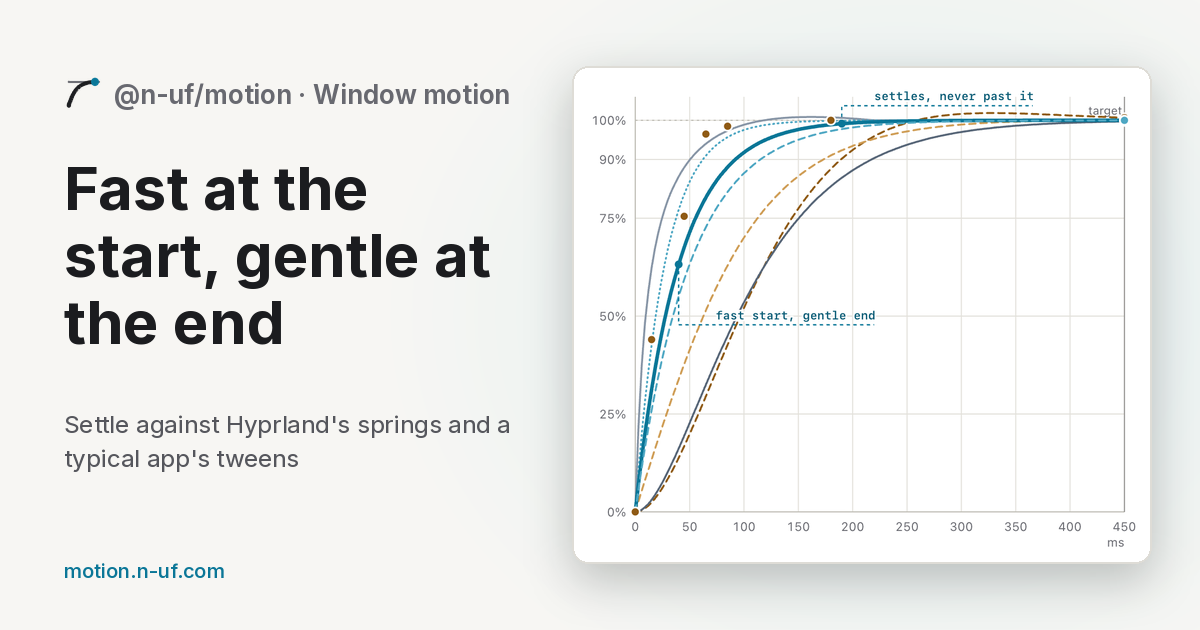
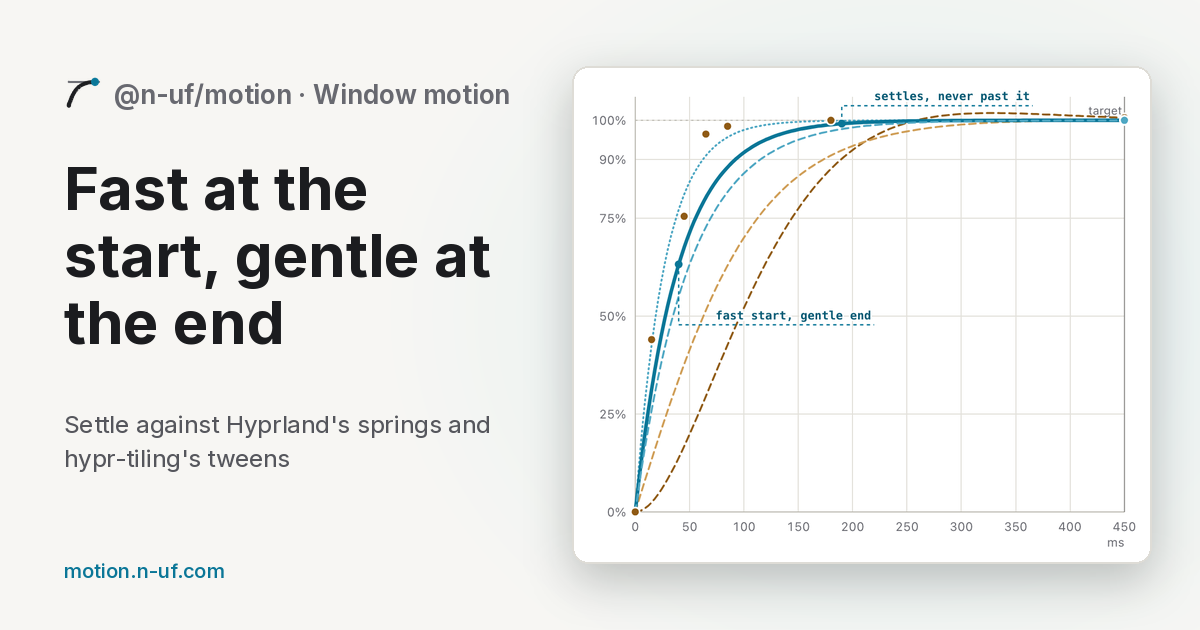
docs(site): re-render the share images; drop the dead --series-d token
The window-motion image no longer shows the unnamed app's curves, and the
other cards use the new words. capture-og.mjs takes CHROMIUM_PATH when the
browser playwright-core expects isn't installed.

(cherry picked from commit 42eeee7d34ae7a82b6f8d16fe8df7013d8af79a8)

diff --git a/apps/web/src/styles/tokens.css b/apps/web/src/styles/tokens.css
@@ -57,8 +57,7 @@
   --series-b2: #9b6aa8;
   --series-c: var(--accent);
   --series-c2: #4ea7c3;
-  /* Other curves (hypr-tiling's, a no-clamp retarget): two slates, never violet (violet is placement's) */
-  --series-d: #566577;
+  /* Other curves (a no-clamp retarget): a slate, never violet (violet is placement's) */
   --series-e: #8795a6;
   --series-ink: #4b4d53;
 
@@ -173,7 +172,6 @@
     --series-b: #9a93ea;
     --series-b2: #d39be0;
     --series-c2: #9edff0;
-    --series-d: #a3afbf;
     --series-e: #6f7d8f;
     --series-ink: #c2c4ca;
     --grip: #7d838e;
@@ -235,7 +233,6 @@
   --series-b: #9a93ea;
   --series-b2: #d39be0;
   --series-c2: #9edff0;
-  --series-d: #a3afbf;
   --series-e: #6f7d8f;
   --series-ink: #c2c4ca;
   --grip: #7d838e;

diff --git a/apps/web/scripts/render-og.py b/apps/web/scripts/render-og.py
@@ -20,9 +20,9 @@ FAINT_LINE = (104, 105, 112)   # the mark's target line: the site's --text-3 in 
 CARDS = [
     ("public/og.png", "n-uf motion & placement", "Window motion and docking", "@n-uf/motion moves windows without overshoot; @n-uf/placement works out where they dock", "home.png", (560, 420)),
     ("public/og/window-motion.png", "@n-uf/motion · Window motion", "Fast at the start, gentle at the end", "Settle against Hyprland's springs and hypr-tiling's tweens", "window-motion.png", (560, 470)),
-    ("public/og/drag-intent.png", "@n-uf/motion · Drag intent", "An indicator only once you aim", "No flicker on borders; the drop lands where it showed", "drag-intent.png", (560, 440)),
-    ("public/og/desk-layouts.png", "@n-uf/placement · Desk layouts", "Nine ways to build a desk", "Docks, a tiling tree, a strip, drawers and palettes", "desk-layouts.png", (560, 440)),
-    ("public/og/toolbar-groups.png", "@n-uf/placement · Toolbar groups", "One handle per group", "Five hosts, three zones, and a lock that hides every grip", "toolbar-groups.png", (560, 440)),
+    ("public/og/drag-intent.png", "@n-uf/motion · Drag intent", "A drop indicator only once you aim", "No flicker at boundaries; the drop lands where it showed", "drag-intent.png", (560, 440)),
+    ("public/og/desk-layouts.png", "@n-uf/placement · Desk layouts", "Nine ways to lay out a workspace", "Docks, a tiling tree, scrolling columns, drawers and floating panels", "desk-layouts.png", (560, 440)),
+    ("public/og/toolbar-groups.png", "@n-uf/placement · Toolbar groups", "One grip per group", "Five toolbar areas, three zones, and a freeze switch that hides every grip", "toolbar-groups.png", (560, 440)),
 ]
 
 ap = argparse.ArgumentParser()
